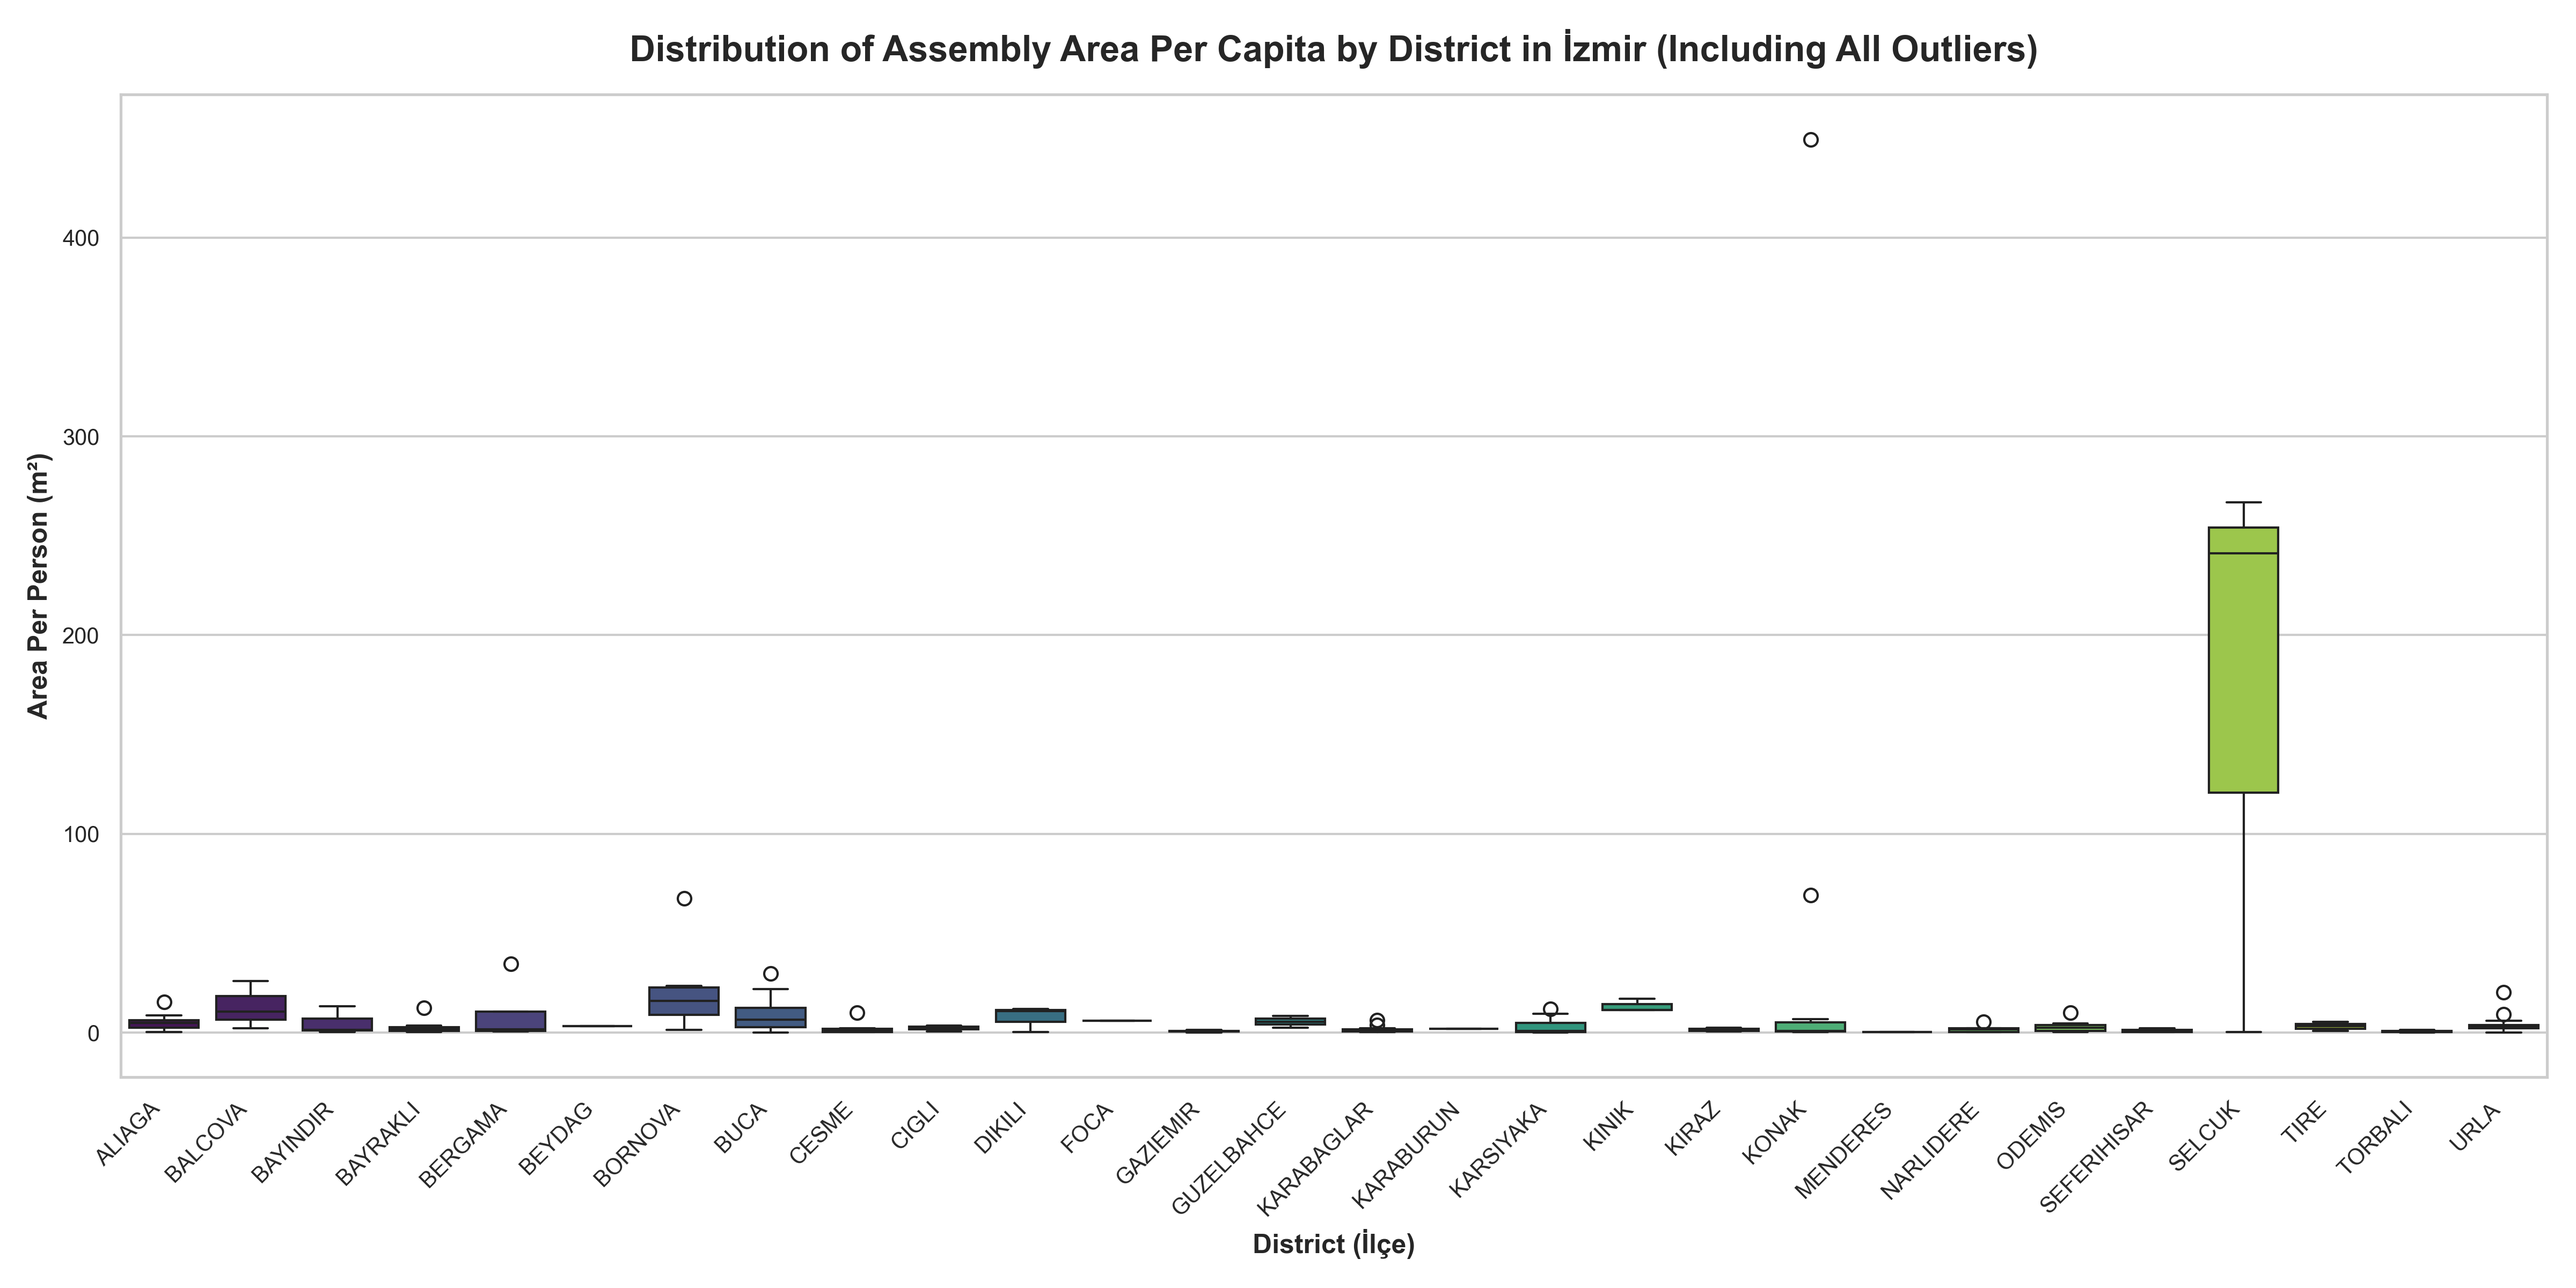
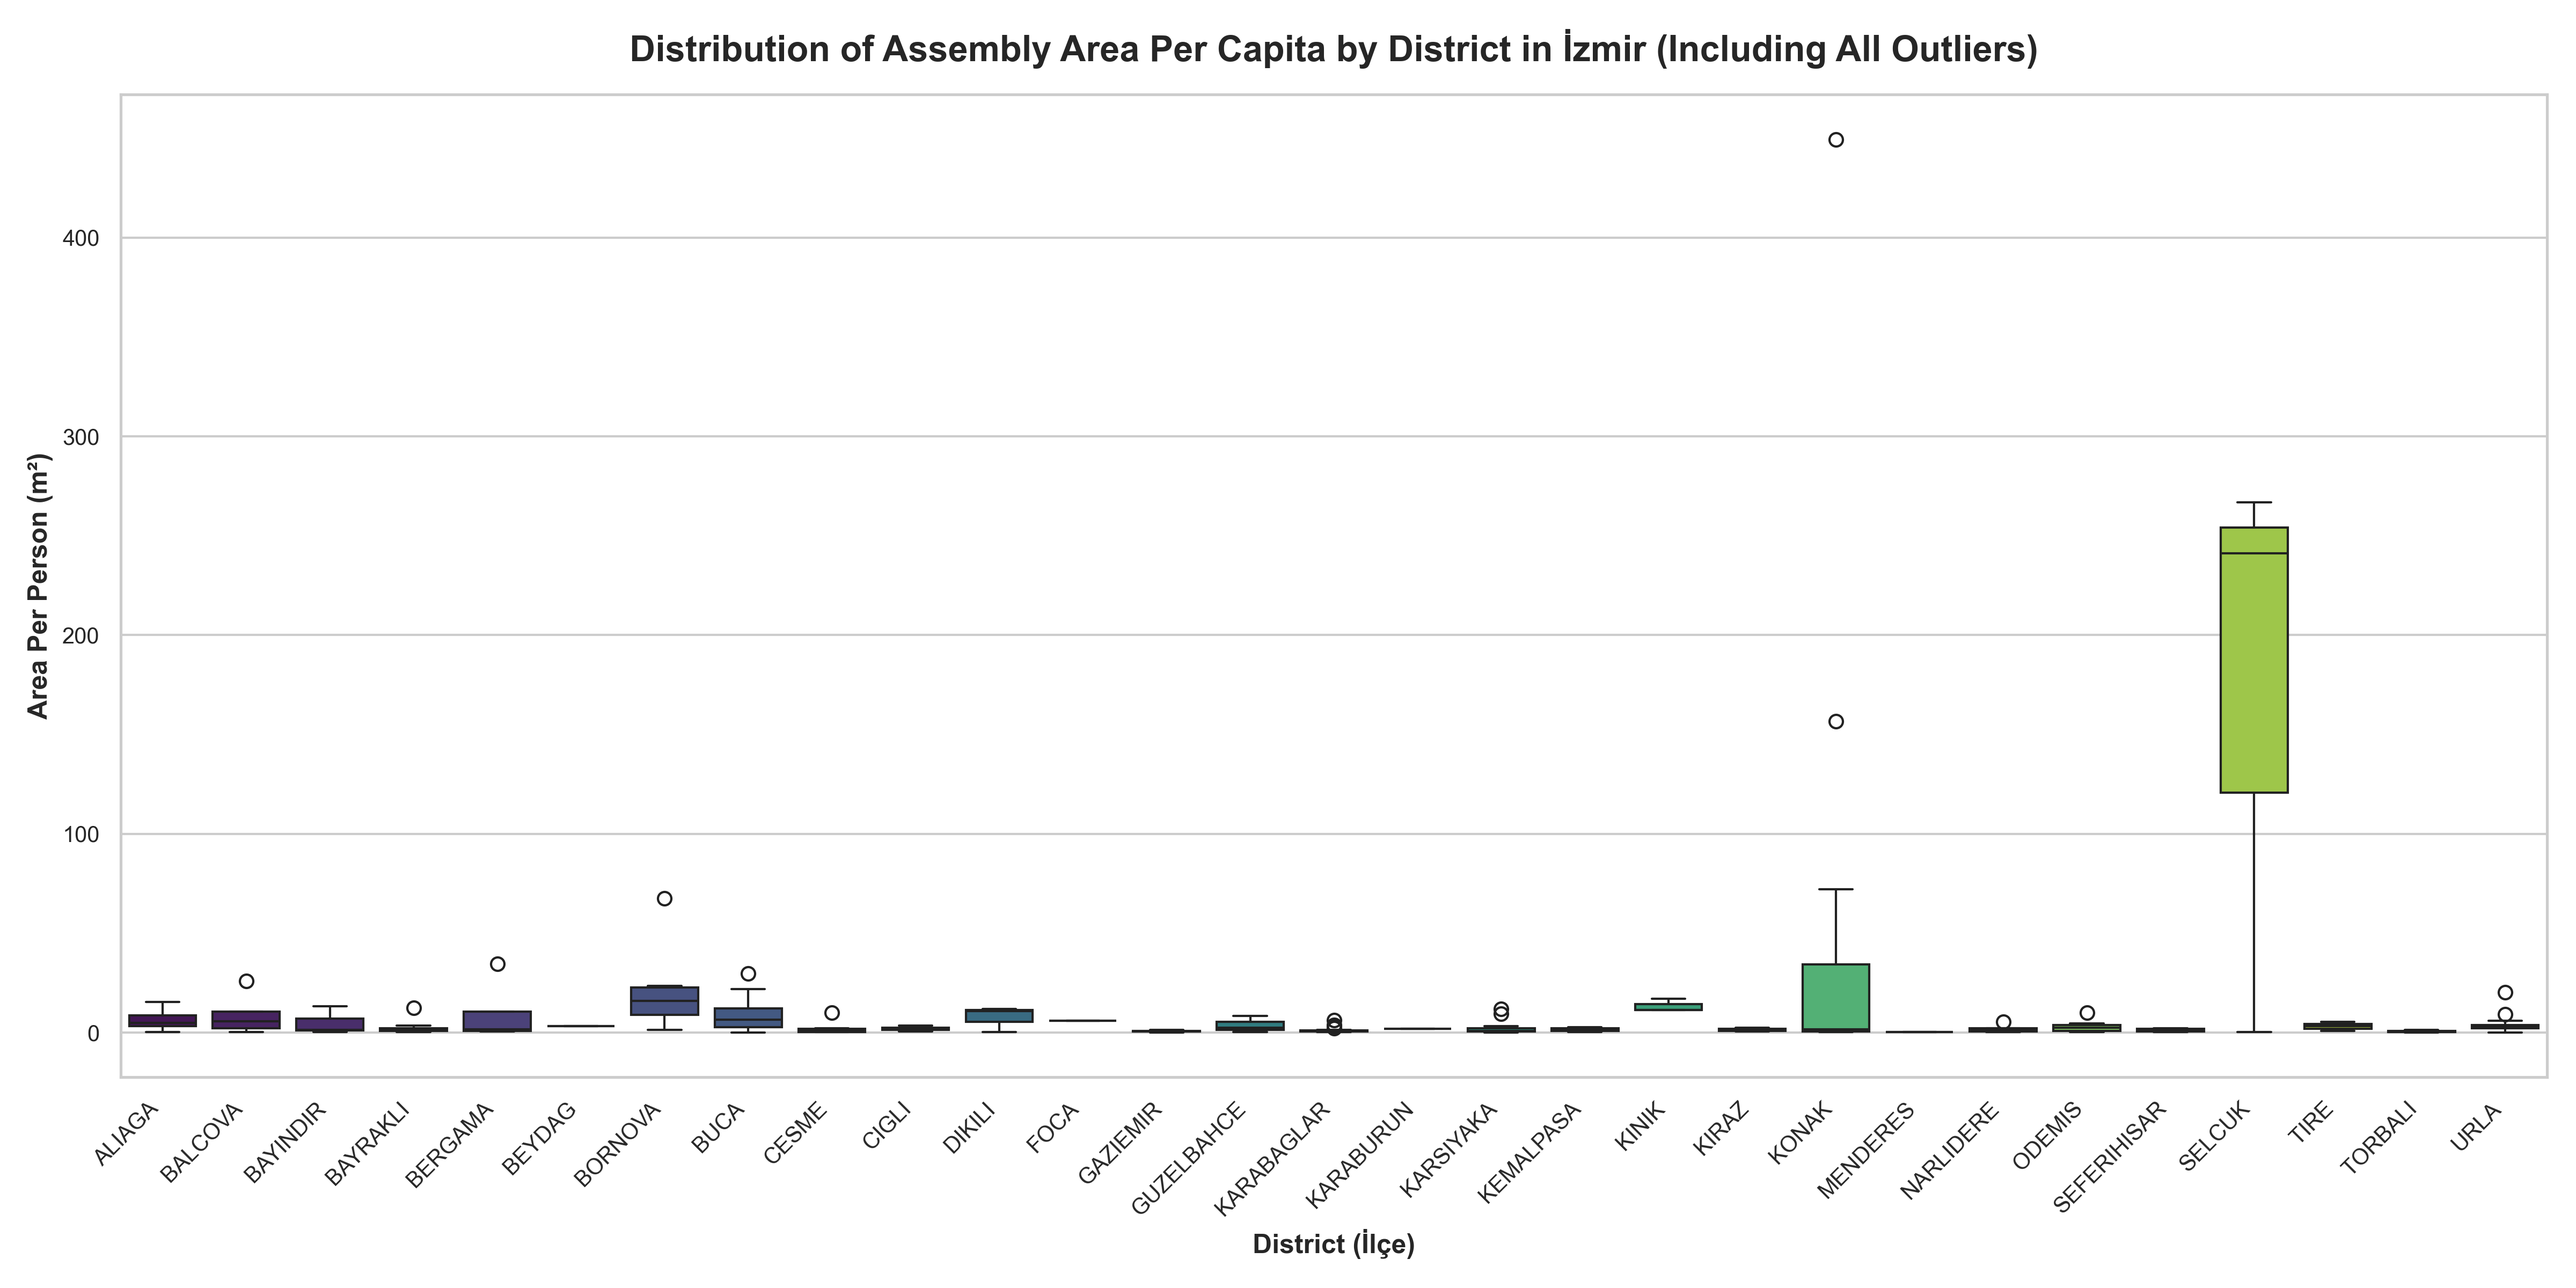
Errors fixed (in description) and two figures have been added for a more detailed analysis of the small values.
Added whitespace removal to the AFAD neighborhood text processing step. Previously, inconsistent spacing in neighborhood names (e.g., "İSA BEY" vs "İSABEY") caused 32 valid locations to be dropped during the inner join with the population dataset. This fix ensures symmetric text formatting across both datasets, successfully restoring the total matched neighborhoods from 181 to the correct 213.

diff --git a/Population-Afad.py b/Population-Afad.py
@@ -31,7 +31,6 @@ def smart_excel_parser(file_path):
         for cell in row:
             val = cell.value
 
-            # Target Area (col 8) and Capacity (col 9) columns
             if cell.column in [8, 9]:
                 # SCENARIO 1: Excel formatted as number but hides zeros (e.g. 24 -> 24000)
                 if isinstance(val, (int, float)):
@@ -40,15 +39,14 @@ def smart_excel_parser(file_path):
 
                 # SCENARIO 2: Manual text entry with multiple dots AND hidden enter keys
                 elif isinstance(val, str):
-                    # İŞTE EKSİK OLAN HAYAT KURTARICI SATIR BURASI:
                     val = val.replace('\n', '').replace('\r', '').replace(' ', '')
 
                     val = val.replace('.', '')  # Remove all thousands separators
-                    val = val.replace(',', '.')  # Convert any comma to decimal point
+                    val = val.replace(',', '.')  # Converting any comma to decimal point
                     try:
-                        val = float(val)  # Convert the clean text into a math number
+                        val = float(val)
                     except ValueError:
-                        pass  # Ignore if it contains weird letters
+                        pass  # Ignore
 
             row_data.append(val)
         data.append(row_data)
@@ -67,9 +65,8 @@ temiz_veri = veri[['SIRA_NO', 'ILCE', 'MAHALLE', 'ALAN_M2', 'KAPASITE']].dropna(
 
 # Apply text standardization
 temiz_veri['ILCE'] = temiz_veri['ILCE'].apply(fix_turkish_letters)
-temiz_veri['MAHALLE'] = temiz_veri['MAHALLE'].apply(fix_turkish_letters)
+temiz_veri['MAHALLE'] = temiz_veri['MAHALLE'].apply(fix_turkish_letters).str.replace(' ', '')
 
-# Ensure numeric types just in case
 temiz_veri['ALAN_M2'] = pd.to_numeric(temiz_veri['ALAN_M2'], errors='coerce')
 temiz_veri['KAPASITE'] = pd.to_numeric(temiz_veri['KAPASITE'], errors='coerce')
 
@@ -80,6 +77,7 @@ temiz_veri['RATIO'] = temiz_veri['ALAN_M2'] / temiz_veri['KAPASITE']
 temiz_veri = temiz_veri[(temiz_veri['RATIO'] >= 3.9) & (temiz_veri['RATIO'] <= 4.1)]
 
 # Remove impossibly small artifact areas (under 100 m2)
+# AFAD does not count them in their dataset.
 temiz_veri = temiz_veri[temiz_veri['ALAN_M2'] >= 100]
 
 print("\n--- 1. CLEANED AFAD DATA (FIRST 15 ROWS) ---")
@@ -258,3 +256,73 @@ plt.tight_layout()
 plt.savefig("3_scatter.png", dpi=300)
 plt.close()
 print(f"[SUCCESS] Scatter plot saved as '3_scatter.png' (Max Value Plotted: {max_val})")
+
+
+# ZOOMED IN SCATTER PLOT (0-30 m²)
+zoomed_veri = birlesik_veri[birlesik_veri['KISI_BASI_M2'] <= 30]
+
+plt.figure(figsize=(12, 8))
+sns.set_theme(style="whitegrid")
+
+ax = sns.regplot(
+    data=zoomed_veri,
+    x='NUFUS',
+    y='KISI_BASI_M2',
+    scatter_kws={'alpha': 0.7, 'color': '#2ca02c', 's': 60, 'edgecolor': 'w'},
+    line_kws={'color': '#d62728', 'linewidth': 2.5}
+)
+
+plt.ticklabel_format(style='plain', axis='x')
+plt.gca().xaxis.set_major_formatter(plt.matplotlib.ticker.StrMethodFormatter('{x:,.0f}'))
+
+plt.ylim(0, 30)
+
+plt.title('Zoomed-in View: Population vs Area Per Person (Excluding >30 m² Outliers)', fontsize=16, fontweight='bold', pad=15)
+plt.xlabel('Neighborhood Population', fontsize=12, fontweight='bold')
+plt.ylabel('Area Per Person (m²)', fontsize=12, fontweight='bold')
+
+plt.tight_layout()
+
+plt.savefig("4_scatter_zoomed.png", dpi=300)
+plt.close()
+
+print("\n[SUCCESS] Zoomed scatter plot saved as '4_scatter_zoomed.png'!")
+
+# ZOOMED-IN BOXPLOT (0-30 m²)
+
+# Excluding Selcuk and Konak for better visibility of other districts
+plot_veri = birlesik_veri[~birlesik_veri['ILCE'].isin(['SELCUK', 'KONAK'])]
+
+plt.figure(figsize=(16, 8))
+sns.set_theme(style="whitegrid")
+
+ax = sns.boxplot(
+    data=plot_veri,
+    x='ILCE',
+    y='KISI_BASI_M2',
+    hue='ILCE',
+    palette='viridis',
+    legend=False
+)
+
+plt.xticks(rotation=45, ha='right', fontsize=10)
+
+plt.ylim(0, 30)
+
+plt.ticklabel_format(style='plain', axis='y')
+plt.gca().yaxis.set_major_formatter(plt.matplotlib.ticker.StrMethodFormatter('{x:,.0f}'))
+
+plt.title('Zoomed Boxplot: Assembly Area Per Capita by District (0-30 m² View)', fontsize=16, fontweight='bold', pad=15)
+plt.xlabel('District (İlçe)', fontsize=12, fontweight='bold')
+plt.ylabel('Area Per Person (m²)', fontsize=12, fontweight='bold')
+
+# Informing
+plt.text(0.5, 0.95, '* Selçuk and Konak are excluded from this view due to extreme outliers exceeding the frame.',
+         transform=ax.transAxes, fontsize=10, color='red', fontstyle='italic', ha='center')
+
+plt.tight_layout()
+
+plt.savefig("5_boxplot_zoomed.png", dpi=300)
+plt.close()
+
+print("\n[SUCCESS] Zoomed Boxplot (excluding Selçuk & Konak) saved as '5_boxplot_zoomed.png'!")
